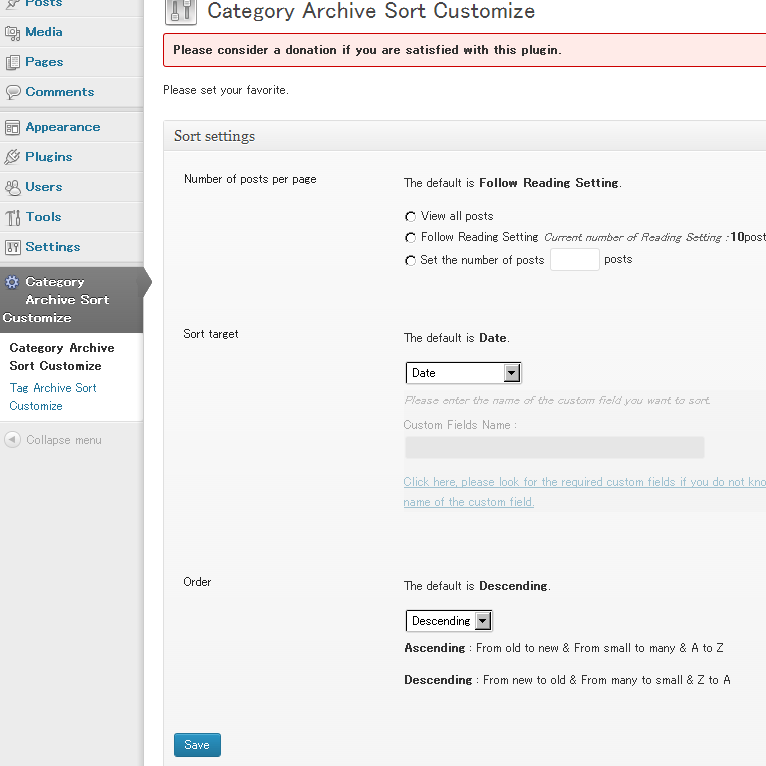
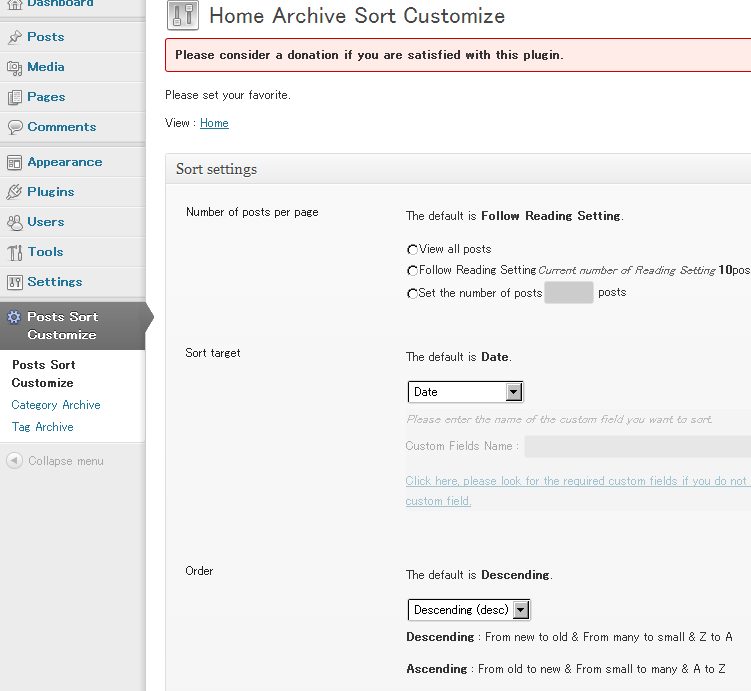
Made it possible to sort of home.
git-svn-id: https://plugins.svn.wordpress.org/archive-posts-sort-customize/trunk@701923 b8457f37-d9ea-0310-8a92-e5e31aec5664

diff --git a/archive-posts-sort-customize.css b/archive-posts-sort-customize.css
@@ -34,3 +34,8 @@
 	float: left;
 	width: 32%;
 }
+
+
+.apsc table td {
+	padding-bottom: 30px;
+}

diff --git a/inc/setting_cat.php b/inc/setting_cat.php
@@ -7,9 +7,10 @@ if( !empty( $_POST["reset"] ) ) {
 }
 
 // include js css
-$ReadedJs = array( 'jquery' , 'jquery-ui-sortable' );
+$ReadedJs = array( 'jquery' , 'jquery-ui-sortable' , 'thickbox' );
 wp_enqueue_script( $this->Slug ,  $this->Dir . dirname( dirname( plugin_basename( __FILE__ ) ) ) . '.js', $ReadedJs , $this->Ver );
 wp_enqueue_style( $this->Slug , $this->Dir . dirname( dirname( plugin_basename( __FILE__ ) ) ) . '.css', array() , $this->Ver );
+wp_enqueue_style( 'thickbox' );
 
 // get data
 $Data = $this->get_data( 'category' );
@@ -21,6 +22,12 @@ $Data = $this->get_data( 'category' );
 	<h2><?php _e( 'Category Archive Sort Customize' , $this->ltd ); ?></h2>
 	<?php echo $this->Msg; ?>
 	<p><?php _e( 'Please set your favorite.' , $this->ltd ); ?></p>
+
+	<?php $Category = get_categories( array( 'number' => 1 , 'orderby' => 'ID' , 'hide_empty' => true) ); ?>
+	<?php if( !empty( $Category ) ) : ?>
+		<?php $Url = get_category_link( $Category[0]->cat_ID ); ?>
+		<p><?php _e( 'View' ); ?> : <a href="<?php echo $Url; ?>?TB_iframe=1" class="thickbox"><?php echo _e( 'Category' ); ?> <?php echo $Category[0]->name; ?></a></p>
+	<?php endif; ?>
 
 	<div class="metabox-holder columns-2 <?php echo $this->ltd; ?>">
 
@@ -44,39 +51,15 @@ $Data = $this->get_data( 'category' );
 								<tr>
 									<th><?php _e( 'Number of posts per page' , $this->ltd ); ?></th>
 									<td>
-										<p><?php echo sprintf( __( 'The default is <strong>%s</strong>.' , $this->ltd ) , __( 'Follow Reading Setting' , $this->ltd ) ); ?></p>
-										<?php
-											$PostParPageList = array(
-												"all" => __( 'View all posts' , $this->ltd ) , "default" => __( 'Follow Reading Setting' , $this->ltd ) , "set" => __( 'Set the number of posts' , $this->ltd )
-											);
-										?>
-										
-										<?php foreach( $PostParPageList as $type => $type_label ) : ?>
-											<?php $Checked = ''; ?>
-											<?php if( !empty( $Data[$field] ) ) : ?>
-												<?php if( $Data[$field] == $type ) : ?>
-													<?php $Checked = 'checked="checked"'; ?>
-												<?php endif; ?>
-											<?php endif; ?>
-											<div class="<?php echo $field; ?>">
-												<label>
-													<input type="radio" name="data[<?php echo $field ?>]" value="<?php echo $type; ?>" <?php echo $Checked; ?> /> <?php echo $type_label; ?>
-													<?php if( $type == 'default' ) : ?>
-														<span class="description"><?php _e( 'Current number of Reading Setting' , $this->ltd ); ?> : </span> <strong><?php echo get_option( 'posts_per_page' ); ?></strong><?php _e( 'posts' ); ?>
-													<?php endif; ?>
-												</label>
-												<?php if( $type == 'set' ) : ?>
-													<span class="<?php echo $field; ?>_num">
-														<?php $val = ''; ?>
-														<?php if( !empty( $Data[$field] ) && $Data[$field] == 'set' && !empty( $Data[$field.'_num'] ) ) : ?>
-															<?php $val = strip_tags( $Data[$field.'_num'] ); ?>
-														<?php endif; ?>
-														<input type="text" class="small-text" id="<?php echo $field; ?>_num" name="data[<?php echo $field ?>_num]" value="<?php echo $val; ?>" /> <?php _e( 'posts' ); ?>
-													</span>
-												<?php endif; ?>
-											</div>
-										<?php endforeach; ?>
-										<p>&nbsp;</p>
+										<?php $posts_per_page = false; ?>
+										<?php if( !empty( $Data[$field] ) ) : ?>
+											<?php $posts_per_page = $Data[$field]; ?>
+										<?php endif; ?>
+										<?php $posts_per_page_num = false; ?>
+										<?php if( !empty( $Data[$field . '_num'] ) ) : ?>
+											<?php $posts_per_page_num = $Data[$field . '_num']; ?>
+										<?php endif; ?>
+										<?php $this->get_sorting_posts_per_page( $posts_per_page , $posts_per_page_num ); ?>
 									</td>
 								</tr>
 
@@ -84,41 +67,15 @@ $Data = $this->get_data( 'category' );
 								<tr>
 									<th><?php _e( 'Sort target' , $this->ltd ); ?></th>
 									<td>
-										<p><?php echo sprintf( __( 'The default is <strong>%s</strong>.' , $this->ltd ) , __( 'Date' ) ); ?></p>
-										<?php
-											$SortTarget = array(
-												"date" => __( 'Date' ) , "title" => __( 'Title' ) , "author" => __( 'Author' ) ,
-												"comment_count" => __( 'Comments Count' , $this->ltd ) , "id" => 'ID' , "custom_fields" => __( 'Custom Fields' )
-											);
-										?>
-										
-										<div class="<?php echo $field; ?>">
-											<select name="data[<?php echo $field; ?>]">
-												<?php foreach( $SortTarget as $type => $type_label ) : ?>
-													<?php $Selected = ''; ?>
-													<?php if( !empty( $Data[$field] ) ) : ?>
-														<?php if( $Data[$field] == $type ) : ?>
-															<?php $Selected = 'selected="selected"'; ?>
-														<?php endif; ?>
-													<?php endif; ?>
-													<option value="<?php echo $type; ?>" <?php echo $Selected; ?>><?php echo $type_label; ?></option>
-												<?php endforeach; ?>
-											</select>
-										</div>
-
-										<div class="<?php echo $field; ?>_custom_fields">
-											<p class="description"><?php _e( 'Please enter the name of the custom field you want to sort.' , $this->ltd ); ?></p>
-											<?php $val = ''; ?>
-											<?php if( !empty( $Data[$field] ) && $Data[$field] == 'custom_fields' && !empty( $Data['orderby_set'] ) ) : ?>
-												<?php $val = strip_tags( $Data['orderby_set'] ); ?>
-											<?php endif; ?>
-											<p><?php _e( 'Custom Fields Name' , $this->ltd ); ?> : <input type="text" class="regular-text" id="<?php echo $field; ?>_set" name="data[<?php echo $field ?>_set]" value="<?php echo $val; ?>" /></p>
-											<p><a href="javascript:void(0);" class="all_custom_fields"><?php _e( 'Click here, please look for the required custom fields if you do not know the name of the custom field.' , $this->ltd ); ?></a></p>
-											<div class="custom_fields_lists">
-												<?php $this->get_custom_fields(); ?>
-											</div>
-										</div>
-										<p>&nbsp;</p>
+										<?php $orderby = false; ?>
+										<?php if( !empty( $Data[$field] ) ) : ?>
+											<?php $orderby = $Data[$field]; ?>
+										<?php endif; ?>
+										<?php $orderbyset = false; ?>
+										<?php if( !empty( $Data[$field . '_set'] ) ) : ?>
+											<?php $orderbyset = $Data[$field . '_set']; ?>
+										<?php endif; ?>
+										<?php $this->get_sorting_orderby( $orderby , $orderbyset ); ?>
 									</td>
 								</tr>
 
@@ -126,22 +83,11 @@ $Data = $this->get_data( 'category' );
 								<tr>
 									<th><?php _e( 'Order' ); ?></th>
 									<td>
-										<?php $Sort = array( "desc" => __( 'Descending' ) , "asc" => __( 'Ascending' ) ); ?>
-
-										<p><?php echo sprintf( __( 'The default is <strong>%s</strong>.' , $this->ltd ) , __( 'Descending' ) ); ?></p>
-										<select name="data[<?php echo $field; ?>]">
-											<?php foreach( $Sort as $type => $type_label ) : ?>
-												<?php $Selected = ''; ?>
-												<?php if( !empty( $Data[$field] ) ) : ?>
-													<?php if( $Data[$field] == $type ) : ?>
-														<?php $Selected = 'selected="selected"'; ?>
-													<?php endif; ?>
-												<?php endif; ?>
-												<option value="<?php echo $type; ?>" <?php echo $Selected; ?>><?php echo $type_label; ?></option>
-											<?php endforeach; ?>
-										</select>
-										<p><strong><?php _e( 'Ascending' ); ?></strong> : <?php _e( 'From old to new' , $this->ltd ); ?> &amp; <?php _e( 'From small to many' , $this->ltd ); ?> &amp; A to Z</p>
-										<p><strong><?php _e( 'Descending' ); ?></strong> : <?php _e( 'From new to old' , $this->ltd ); ?> &amp; <?php _e( 'From many to small' , $this->ltd ); ?> &amp;  Z to A</p>
+										<?php $order = false; ?>
+										<?php if( !empty( $Data[$field] ) ) : ?>
+											<?php $order = $Data[$field]; ?>
+										<?php endif; ?>
+										<?php $this->get_sorting_order( $order ); ?>
 									</td>
 								</tr>
 							</tbody>

diff --git a/archive-posts-sort-customize.php b/archive-posts-sort-customize.php
@@ -3,9 +3,9 @@
 Plugin Name: Archive Posts Sort Customize
 Description: Customize the display order of the list of Archive Posts.
 Plugin URI: http://wordpress.org/extend/plugins/archive-posts-sort-customize/
-Version: 1.0
+Version: 1.1
 Author: gqevu6bsiz
-Author URI: http://gqevu6bsiz.chicappa.jp/?utm_source=use_plugin&utm_medium=list&utm_content=apsc&utm_campaign=1_0
+Author URI: http://gqevu6bsiz.chicappa.jp/?utm_source=use_plugin&utm_medium=list&utm_content=apsc&utm_campaign=1_1
 Text Domain: apsc
 Domain Path: /languages
 */
@@ -45,7 +45,7 @@ class APSC
 
 
 	function __construct() {
-		$this->Ver = '1.0';
+		$this->Ver = '1.1';
 		$this->Name = 'Archive Post Sort Customize';
 		$this->Dir = WP_PLUGIN_URL . '/' . dirname( plugin_basename( __FILE__ ) ) . '/';
 		$this->ltd = 'apsc';
@@ -92,8 +92,10 @@ class APSC
 
 	// PluginSetup
 	function admin_menu() {
-		add_menu_page( __( 'Category Archive Sort Customize' , $this->ltd ) , __( 'Category Archive Sort Customize' , $this->ltd ) , 'administrator', $this->Slug , array( $this , 'setting_cat') );
-		add_submenu_page( $this->Slug , __( 'Tag Archive Sort Customize' , $this->ltd ) , __( 'Tag Archive Sort Customize' , $this->ltd ) , 'administrator' , 'page' . $this->RecordBaseName , array( $this , 'setting_tag' ) );
+		add_menu_page( __( 'Posts Sort Customize' , $this->ltd ) , __( 'Posts Sort Customize' , $this->ltd ) , 'administrator', $this->Slug , array( $this , 'setting_home') );
+
+		add_submenu_page( $this->Slug , __( 'Category Archive Sort Customize' , $this->ltd ) , __( 'Category Archive' , $this->ltd ) , 'administrator' , 'cat' . $this->RecordBaseName , array( $this , 'setting_cat' ) );
+		add_submenu_page( $this->Slug , __( 'Tag Archive Sort Customize' , $this->ltd ) , __( 'Tag Archive' , $this->ltd ) , 'administrator' , 'tag' . $this->RecordBaseName , array( $this , 'setting_tag' ) );
 	}
 
 	// Translation File Check
@@ -107,6 +109,13 @@ class APSC
 	}
 
 
+
+	// SettingPage
+	function setting_home() {
+		add_filter( 'admin_footer_text' , array( $this , 'layout_footer' ) );
+		$this->DisplayDonation();
+		include_once 'inc/setting_home.php';
+	}
 
 	// SettingPage
 	function setting_cat() {
@@ -137,6 +146,100 @@ class APSC
 	}
 
 
+
+	// Setting Item
+	function get_sorting_posts_per_page( $posts_per_page , $posts_per_page_num ) {
+
+		echo '<p>' . sprintf( __( 'The default is <strong>%s</strong>.' , $this->ltd ) , __( 'Follow Reading Setting' , $this->ltd ) ) . '</p>';
+
+		$Sort = array( "all" => __( 'View all posts' , $this->ltd ) , "default" => __( 'Follow Reading Setting' , $this->ltd ) , "set" => __( 'Set the number of posts' , $this->ltd ) );
+		foreach( $Sort as $type => $type_label ) {
+			$Checked = '';
+			if( !empty( $posts_per_page ) && $posts_per_page == $type ) {
+				$Checked = 'checked="checked"';
+			}
+			echo '<div class="posts_per_page">';
+			
+			echo '<label>';
+			echo '<input type="radio" name="data[posts_per_page]" value="' . $type . '" ' . $Checked . ' />';
+			echo $type_label;
+			if( $type == 'default' ) {
+				echo sprintf( '<span class="description">%1$s</span> <strong>%2$s</strong>%3$s' , __( 'Current number of Reading Setting' , $this->ltd ) , get_option( 'posts_per_page' ) , __( 'posts' ) );
+			}
+			echo '</label>';
+			
+			if( $type == 'set' ) {
+				echo '<span class="posts_per_page_num">';
+				$val = '';
+				if( !empty( $posts_per_page ) && $posts_per_page == 'set' && !empty( $posts_per_page_num ) ) {
+					$val = strip_tags( $posts_per_page_num );
+				}
+				echo '<input type="text" class="small-text" id="posts_per_page_num" name="data[posts_per_page_num]" value="' . $val . '" /> ' . __( 'posts' );
+				echo '</span>';
+			}
+			
+			echo '</div>';
+		}
+
+	}
+	
+	// Setting Item
+	function get_sorting_orderby( $orderby , $orderby_set ) {
+
+		echo '<p>' . sprintf( __( 'The default is <strong>%s</strong>.' , $this->ltd ) , __( 'Date' ) ) . '</p>';
+
+		$Sort = array( "date" => __( 'Date' ) , "title" => __( 'Title' ) , "author" => __( 'Author' ) , "comment_count" => __( 'Comments Count' , $this->ltd ) , "id" => 'ID' , "custom_fields" => __( 'Custom Fields' ) );
+
+		echo '<div class="orderby">';
+		echo '<select name="data[orderby]">';
+		foreach( $Sort as $type => $type_label ) {
+			$Selected = '';
+			if( !empty( $orderby ) && $orderby == $type ) {
+				$Selected = 'selected="selected"';
+			}
+			echo sprintf( '<option value="%1$s" %2$s>%3$s</option>' , $type , $Selected , $type_label );
+		}
+		echo '</select>';
+		echo '</div>';
+		
+		echo '<div class="orderby_custom_fields">';
+			echo '<p class="description">' . __( 'Please enter the name of the custom field you want to sort.' , $this->ltd ) . '</p>';
+			$val = '';
+			if( !empty( $orderby ) && $orderby == 'custom_fields' && !empty( $orderby_set ) ) {
+				$val = strip_tags( $orderby_set );
+			}
+			echo '<p>' . __( 'Custom Fields Name' , $this->ltd ) . ' : ';
+			echo '<input type="text" class="regular-text" id="orderby_set" name="data[orderby_set]" value="' . $val . '" />';
+			echo '</p>';
+			echo '<p><a href="javascript:void(0);" class="all_custom_fields">' . __( 'Click here, please look for the required custom fields if you do not know the name of the custom field.' , $this->ltd ) . '</a></p>';
+			echo '<div class="custom_fields_lists">';
+			$this->get_custom_fields();
+			echo '</div>';
+		echo '</div>';
+
+	}
+	
+	// Setting Item
+	function get_sorting_order( $order ) {
+
+		echo '<p>' . sprintf( __( 'The default is <strong>%s</strong>.' , $this->ltd ) , __( 'Descending' ) ) . '</p>';
+		echo '<select name="data[order]">';
+
+		$Sort = array( "desc" => __( 'Descending' ) , "asc" => __( 'Ascending' ) );
+
+		foreach( $Sort as $type => $type_label ) {
+			$Selected = '';
+			if( !empty( $order ) && $order == $type ) {
+				$Selected = 'selected="selected"';
+			}
+			echo sprintf( '<option value="%1$s" %2$s>%3$s</option>' , $type , $Selected , $type_label . ' (' . $type . ')' );
+		}
+
+		echo '</select>';
+		echo '<p><strong>' . __( 'Descending' ) . '</strong> : ' . __( 'From new to old' , $this->ltd ) . ' &amp; ' . __( 'From many to small' , $this->ltd ) . ' &amp; Z to A</p>';
+		echo '<p><strong>' . __( 'Ascending' ) . '</strong> : ' . __( 'From old to new' , $this->ltd ) . ' &amp; ' . __( 'From small to many' , $this->ltd ) . ' &amp; A to Z</p>';
+	}
+	
 	// Setting Item
 	function get_custom_fields() {
 		global $wpdb;
@@ -155,7 +258,8 @@ class APSC
 		}
 		echo '</ul>';
 	}
-	
+
+
 
 	// Update Setting
 	function update() {
@@ -212,8 +316,13 @@ class APSC
 	function Archive_Sort( $query ) {
 		global $wpdb;
 		$Data = array();
-		
-		if( $query->is_category() ) {
+
+		if( $query->is_home() ) {
+			$GetData = $this->get_data( 'home' );
+			if( !empty( $GetData ) ) {
+				$Data = $GetData;
+			}
+		} elseif( $query->is_category() ) {
 			$GetData = $this->get_data( 'category' );
 			if( !empty( $GetData ) ) {
 				$Data = $GetData;

diff --git a/inc/setting_home.php b/inc/setting_home.php
@@ -13,21 +13,17 @@ wp_enqueue_style( $this->Slug , $this->Dir . dirname( dirname( plugin_basename( 
 wp_enqueue_style( 'thickbox' );
 
 // get data
-$Data = $this->get_data( 'tag' );
+$Data = $this->get_data( 'home' );
 
 ?>
 
 <div class="wrap">
 	<div class="icon32" id="icon-options-general"></div>
-	<h2><?php _e( 'Tag Archive Sort Customize' , $this->ltd ); ?></h2>
+	<h2><?php _e( 'Home Archive Sort Customize' , $this->ltd ); ?></h2>
 	<?php echo $this->Msg; ?>
 	<p><?php _e( 'Please set your favorite.' , $this->ltd ); ?></p>
-
-	<?php $Tag = get_tags( array( 'number' => 1 , 'orderby' => 'ID' , 'hide_empty' => true) ); ?>
-	<?php if( !empty( $Tag ) ) : ?>
-		<?php $Url = get_tag_link( $Tag[0]->term_id ); ?>
-		<p><?php _e( 'View' ); ?> : <a href="<?php echo $Url; ?>?TB_iframe=1" class="thickbox"><?php echo _e( 'Tag' ); ?> <?php echo $Tag[0]->name; ?></a></p>
-	<?php endif; ?>
+	<?php $Url = get_option( 'home' ); ?>
+		<p><?php _e( 'View' ); ?> : <a href="<?php echo $Url; ?>?TB_iframe=1" class="thickbox"><?php echo _e( 'Home' ); ?></a></p>
 
 	<div class="metabox-holder columns-2 <?php echo $this->ltd; ?>">
 
@@ -37,7 +33,7 @@ $Data = $this->get_data( 'tag' );
 				<input type="hidden" name="<?php echo $this->UPFN; ?>" value="Y">
 				<?php wp_nonce_field(); ?>
 
-				<input type="hidden" name="set_sort" value="tag" />
+				<input type="hidden" name="set_sort" value="home" />
 				<div class="postbox">
 
 					<h3><?php _e( 'Sort settings' , $this->ltd ); ?></h3>
